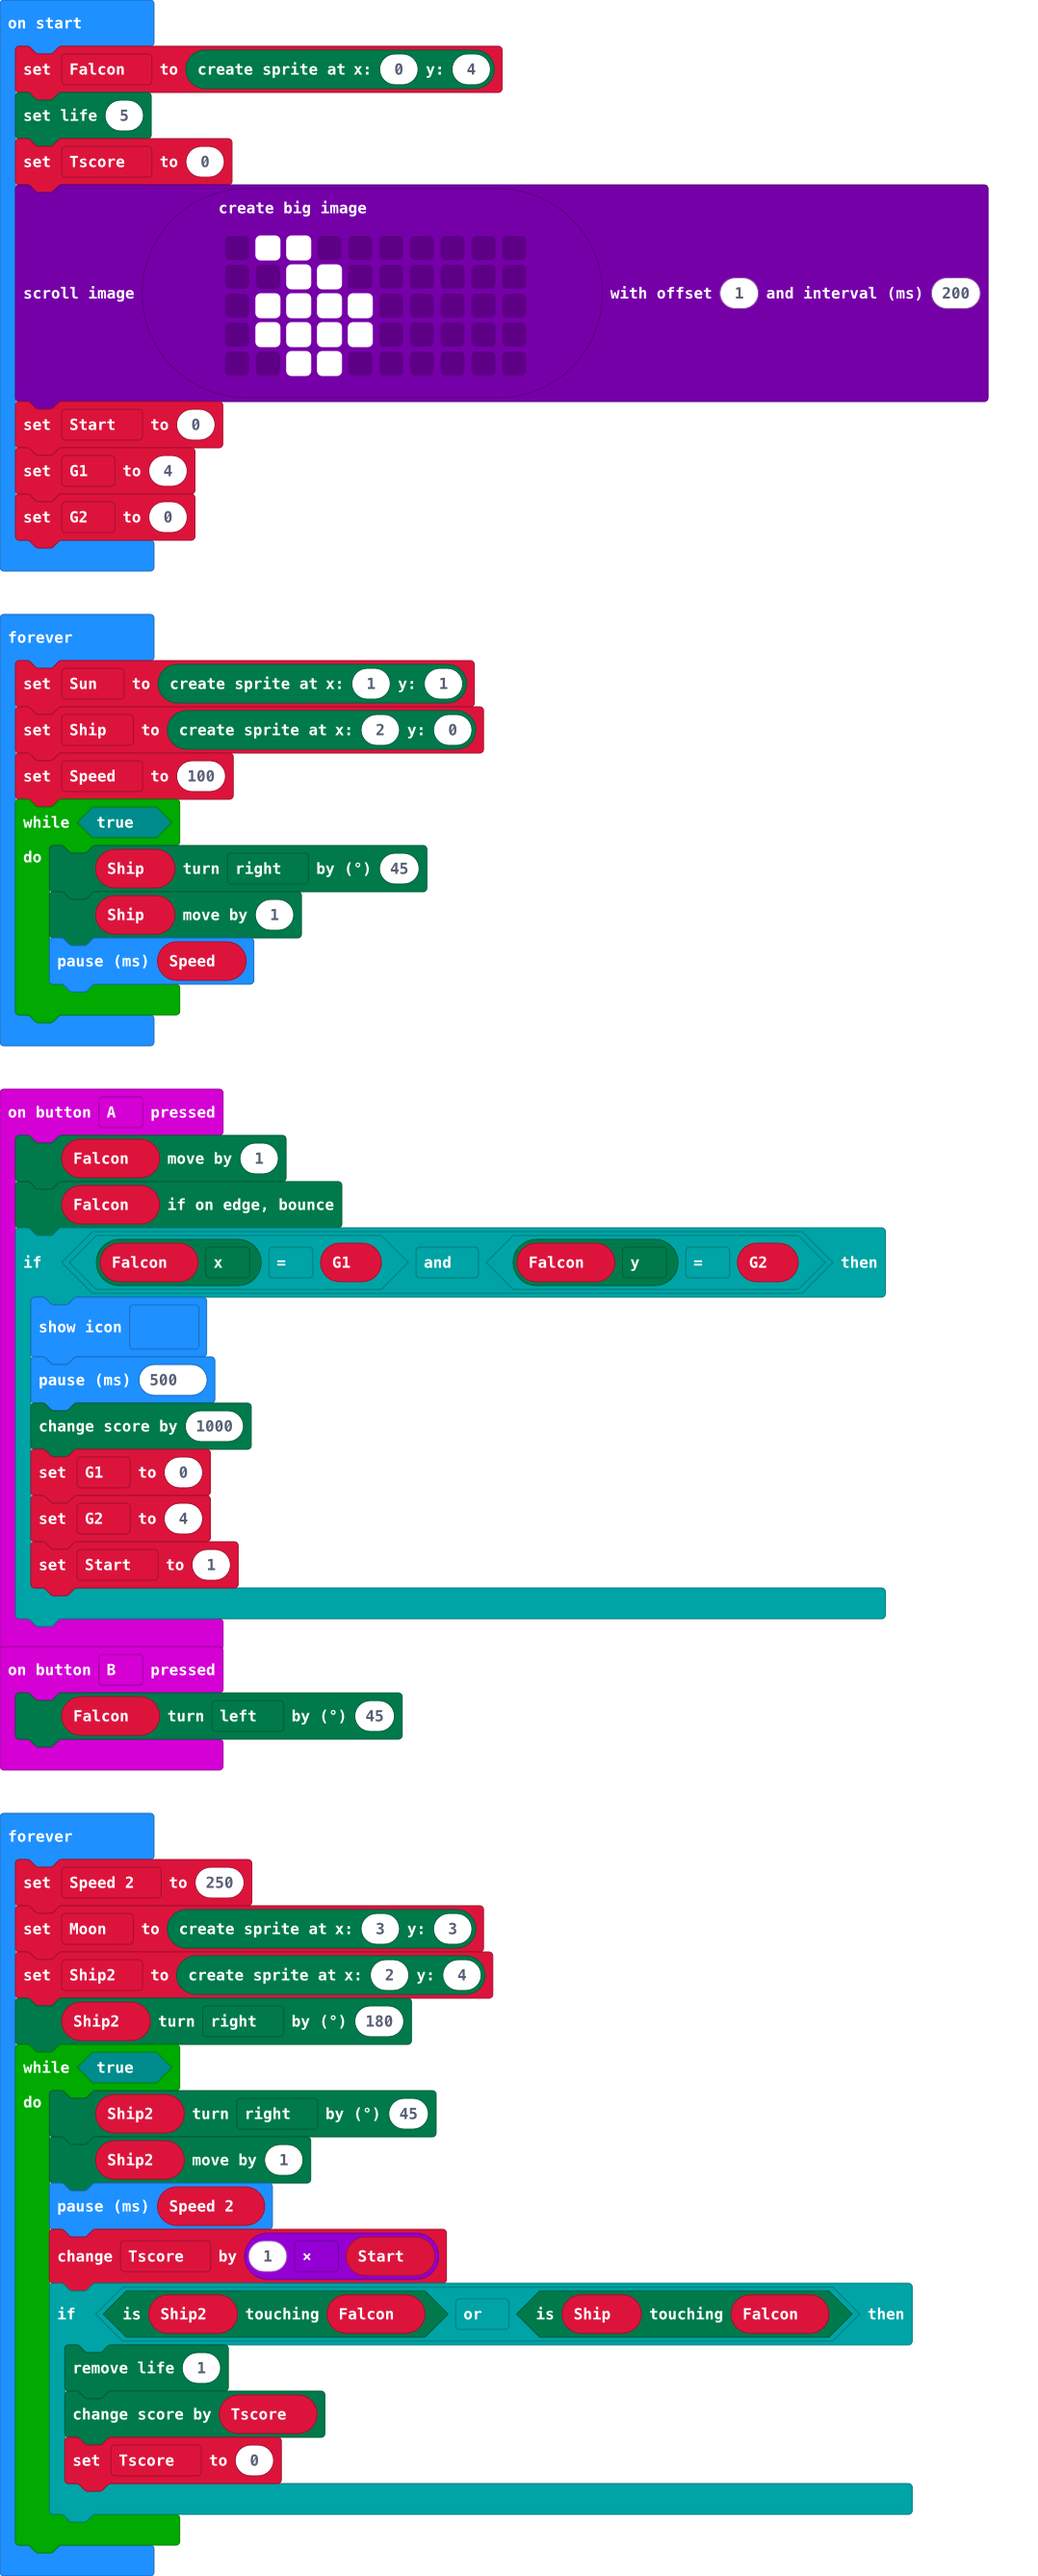
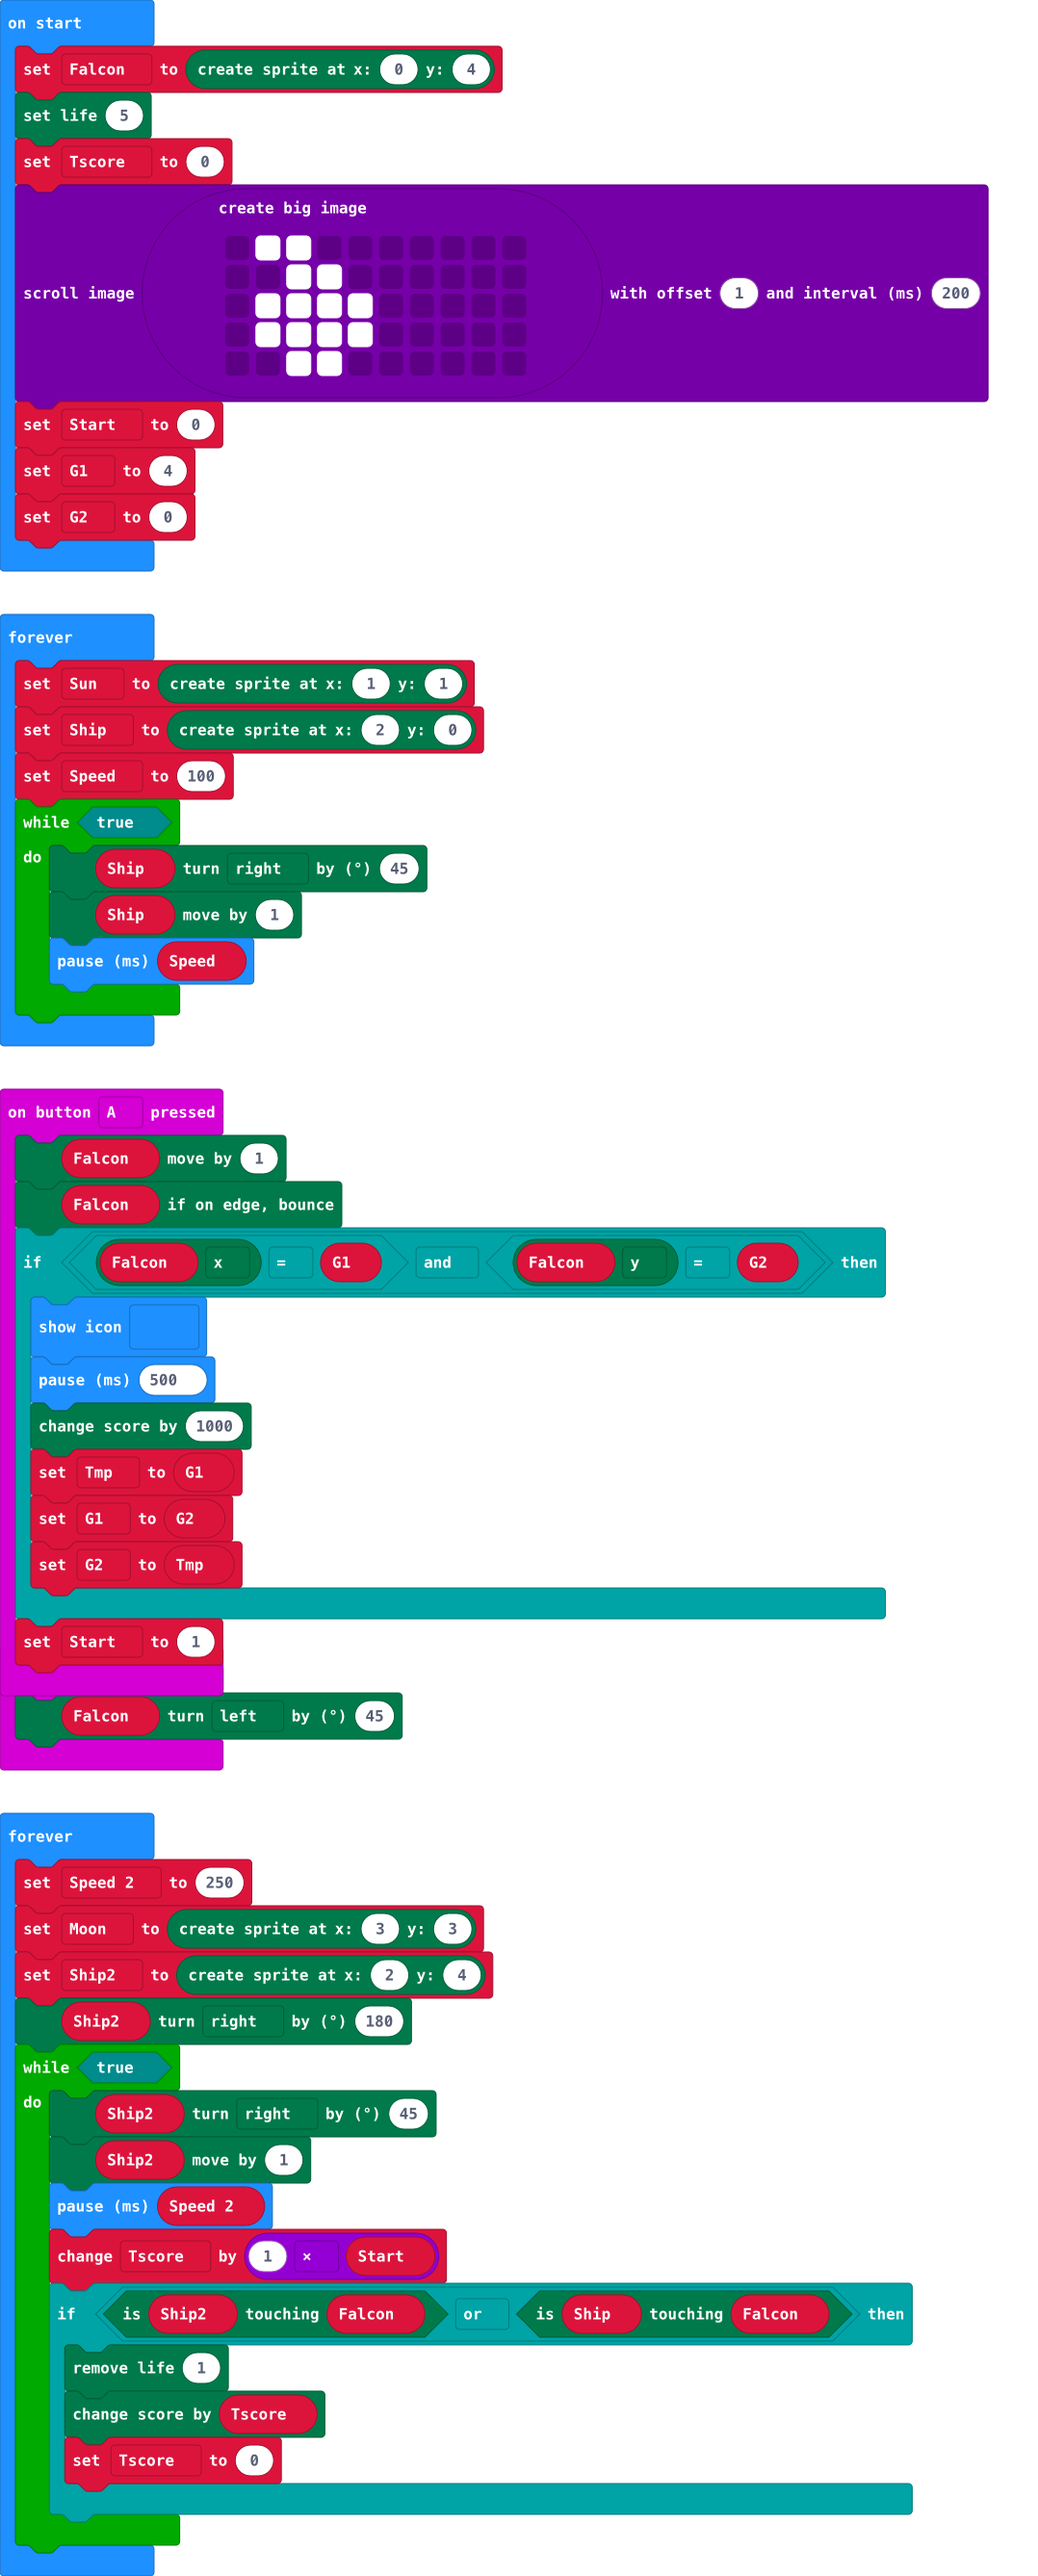
Update main.blocks, main.ts

Changed region(s): [[0.0, 0.5585, 0.2449, 0.6516]]

diff --git a/main.ts b/main.ts
@@ -5,10 +5,11 @@ input.onButtonPressed(Button.A, function () {
         basic.showIcon(IconNames.Cow)
         basic.pause(500)
         game.addScore(1000)
-        G1 = 0
-        G2 = 4
-        Start = 1
+        Tmp = G1
+        G1 = G2
+        G2 = Tmp
     }
+    Start = 1
 })
 input.onButtonPressed(Button.B, function () {
     Falcon.turn(Direction.Left, 45)
@@ -19,6 +20,7 @@ let Speed_2 = 0
 let Speed = 0
 let Ship: game.LedSprite = null
 let Sun: game.LedSprite = null
+let Tmp = 0
 let G2 = 0
 let G1 = 0
 let Start = 0
